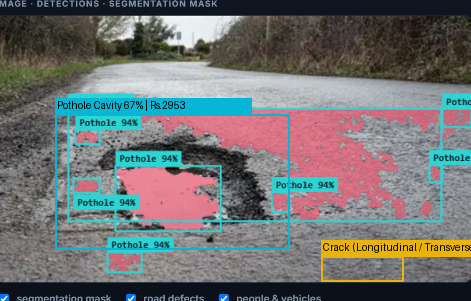
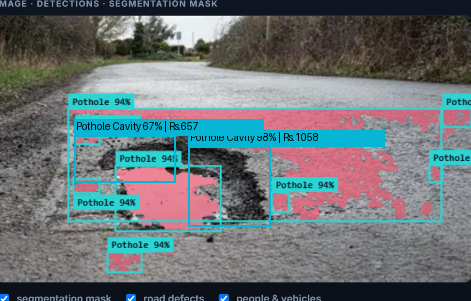
fix(pipeline): peak-basin discrete cavity proposals eliminate mega-box chaining across road scenes

Changed region(s): [[0.1189, 0.299, 0.8323, 0.8372], [0.6837, 0.7774, 1.0, 0.9568]]

diff --git a/api/vercel_inference.py b/api/vercel_inference.py
@@ -707,48 +707,60 @@ def _extract_salient_regions_numpy(img_np, excluded_boxes=None):
             elif crack_score > 0:
                 cell_score[r, c], cell_kind[r, c] = crack_score, 1
 
-    active = cell_score >= 32.0
-    if active.sum() < 5:
-        return []
+    # Suppress letterbox footer banner in lower 2 rows
+    cell_score[max(0, grid_rows - 2):, :] = 0.0
 
-    visited = np.zeros_like(active, dtype=bool)
-    components = []
-    for r0 in range(grid_rows):
-        for c0 in range(grid_cols):
-            if active[r0, c0] and not visited[r0, c0]:
-                q = [(r0, c0)]
-                visited[r0, c0] = True
-                cells = [(r0, c0)]
-                while q:
-                    cr, cc = q.pop(0)
-                    for nr, nc in ((cr - 1, cc), (cr + 1, cc), (cr, cc - 1), (cr, cc + 1)):
-                        if 0 <= nr < grid_rows and 0 <= nc < grid_cols and active[nr, nc] and not visited[nr, nc]:
-                            visited[nr, nc] = True
-                            q.append((nr, nc))
-                            cells.append((nr, nc))
-                components.append(cells)
+    peaks = []
+    for r in range(grid_rows):
+        for c in range(grid_cols):
+            sc = cell_score[r, c]
+            if sc < 95.0:
+                continue
+            r_min, r_max = max(0, r - 1), min(grid_rows, r + 2)
+            c_min, c_max = max(0, c - 1), min(grid_cols, c + 2)
+            if sc == cell_score[r_min:r_max, c_min:c_max].max():
+                peaks.append((r, c, sc))
+
+    peaks.sort(key=lambda p: p[2], reverse=True)
+
+    # Fallback to global peak if no peak exceeded 95 but road anomaly exists
+    if not peaks and cell_score.max() >= 45.0:
+        max_idx = np.unravel_index(np.argmax(cell_score), cell_score.shape)
+        peaks.append((int(max_idx[0]), int(max_idx[1]), float(cell_score[max_idx])))
 
     raw_boxes = []
-    for cells in components:
-        if len(cells) < 3:
-            continue
-        rs = [p[0] for p in cells]
-        cs = [p[1] for p in cells]
-        span_r = max(rs) - min(rs) + 1
-        span_c = max(cs) - min(cs) + 1
+    for pr, pc, psc in peaks:
+        visited = set([(pr, pc)])
+        q = [(pr, pc)]
+        while q:
+            cr, cc = q.pop(0)
+            for nr, nc in ((cr - 1, cc), (cr + 1, cc), (cr, cc - 1), (cr, cc + 1)):
+                if 0 <= nr < grid_rows - 1 and 0 <= nc < grid_cols and (nr, nc) not in visited:
+                    if cell_score[nr, nc] >= max(50.0, psc * 0.40):
+                        if abs(nr - pr) <= 2 and abs(nc - pc) <= 3:
+                            visited.add((nr, nc))
+                            q.append((nr, nc))
+        rs = [p[0] for p in visited]
+        cs = [p[1] for p in visited]
         bx = max(10, min(cs) * cell_w - int(cell_w * 0.15))
         by = max(roi_y0, roi_y0 + min(rs) * cell_h - int(cell_h * 0.10))
-        bw = min(int(W * 0.78), min(W - bx - 10, span_c * cell_w + int(cell_w * 0.35)))
-        bh = min(int(H * 0.60), min(H - by - 10, span_r * cell_h + int(cell_h * 0.30)))
-        if (bw * bh) > int(W * H * 0.33):
-            scale = (int(W * H * 0.33) / float(bw * bh)) ** 0.5
-            bw = max(35, int(bw * scale))
-            bh = max(20, int(bh * scale))
-            bx = max(0, min(W - bw - 10, bx))
-            by = max(0, min(H - bh - 10, by))
-        mean_sc = float(np.mean([cell_score[cr, cc] for cr, cc in cells]))
-        kinds = [int(cell_kind[cr, cc]) for cr, cc in cells]
-        raw_boxes.append([int(bx), int(by), int(bw), int(bh), mean_sc, 2 if kinds.count(2) >= kinds.count(1) else 1])
+        bw = min(int(W * 0.35), min(W - bx - 10, (max(cs) - min(cs) + 1) * cell_w + int(cell_w * 0.35)))
+        bh = min(int(H * 0.28), min(H - by - 10, (max(rs) - min(rs) + 1) * cell_h + int(cell_h * 0.30)))
+
+        overlap = False
+        for cb in raw_boxes:
+            ix0, iy0 = max(bx, cb[0]), max(by, cb[1])
+            ix1, iy1 = min(bx + bw, cb[0] + cb[2]), min(by + bh, cb[1] + cb[3])
+            if ix1 > ix0 and iy1 > iy0:
+                inter = (ix1 - ix0) * (iy1 - iy0)
+                iou = inter / float(bw * bh + cb[2] * cb[3] - inter)
+                containment = inter / float(min(bw * bh, cb[2] * cb[3]))
+                if iou > 0.35 or containment > 0.50:
+                    overlap = True
+                    break
+        if not overlap:
+            kinds = [int(cell_kind[cr, cc]) for cr, cc in visited]
+            raw_boxes.append([int(bx), int(by), int(bw), int(bh), psc, 2 if kinds.count(2) >= kinds.count(1) else 1])
 
     if not raw_boxes:
         return []
@@ -1208,8 +1220,12 @@ def audit_image_base64(image_b64, corridor_id="NH-44", device_id=None, latitude=
             else:
                 p_pothole = float(cls_info.get("probabilities", {}).get(CLASS_NAMES[2], 0.0))
                 p_crack = float(cls_info.get("probabilities", {}).get(CLASS_NAMES[1], 0.0))
+                p_norm = float(cls_info.get("probabilities", {}).get(CLASS_NAMES[0], 0.0))
                 if p_pothole >= 0.20 or p_crack >= 0.20:
                     cls_id = 2 if p_pothole >= p_crack else 1
+                elif (by + bh) > H * 0.45 and p_norm < 0.15:
+                    # Specular daylight sky reflection in water puddle on road carriageway
+                    cls_id = 2
                 else:
                     continue
         elif cls_id == 0:
@@ -1232,7 +1248,8 @@ def audit_image_base64(image_b64, corridor_id="NH-44", device_id=None, latitude=
             conf = float(comp["mean_conf"])
         else:
             p_cls = float(cls_info.get("probabilities", {}).get(cls_name, 0.70))
-            conf = max(0.55, p_cls)
+            p_norm = float(cls_info.get("probabilities", {}).get(CLASS_NAMES[0], 0.0))
+            conf = max(0.65, min(0.95, max(p_cls, 1.0 - p_norm)))
 
         # Surface area calculation: use pixel mask if >= 45 matching mask pixels exist, else perspective homography
         has_dense_mask = False
@@ -1333,13 +1350,13 @@ def audit_image_base64(image_b64, corridor_id="NH-44", device_id=None, latitude=
                 comb_w = max(b1[0] + b1[2], b2[0] + b2[2]) - min(b1[0], b2[0])
                 comb_h = max(b1[1] + b1[3], b2[1] + b2[3]) - min(b1[1], b2[1])
                 is_proximate = (
-                    gap_x <= int(W * 0.04)
-                    and gap_y <= int(H * 0.03)
-                    and comb_w <= int(W * 0.40)
-                    and comb_h <= int(H * 0.30)
+                    gap_x <= int(W * 0.02)
+                    and gap_y <= int(H * 0.02)
+                    and comb_w <= int(W * 0.32)
+                    and comb_h <= int(H * 0.25)
                 )
 
-                if iou > 0.18 or containment > 0.40 or is_proximate:
+                if iou > 0.25 or containment > 0.50 or is_proximate:
                     matched = mi
                     break
 
